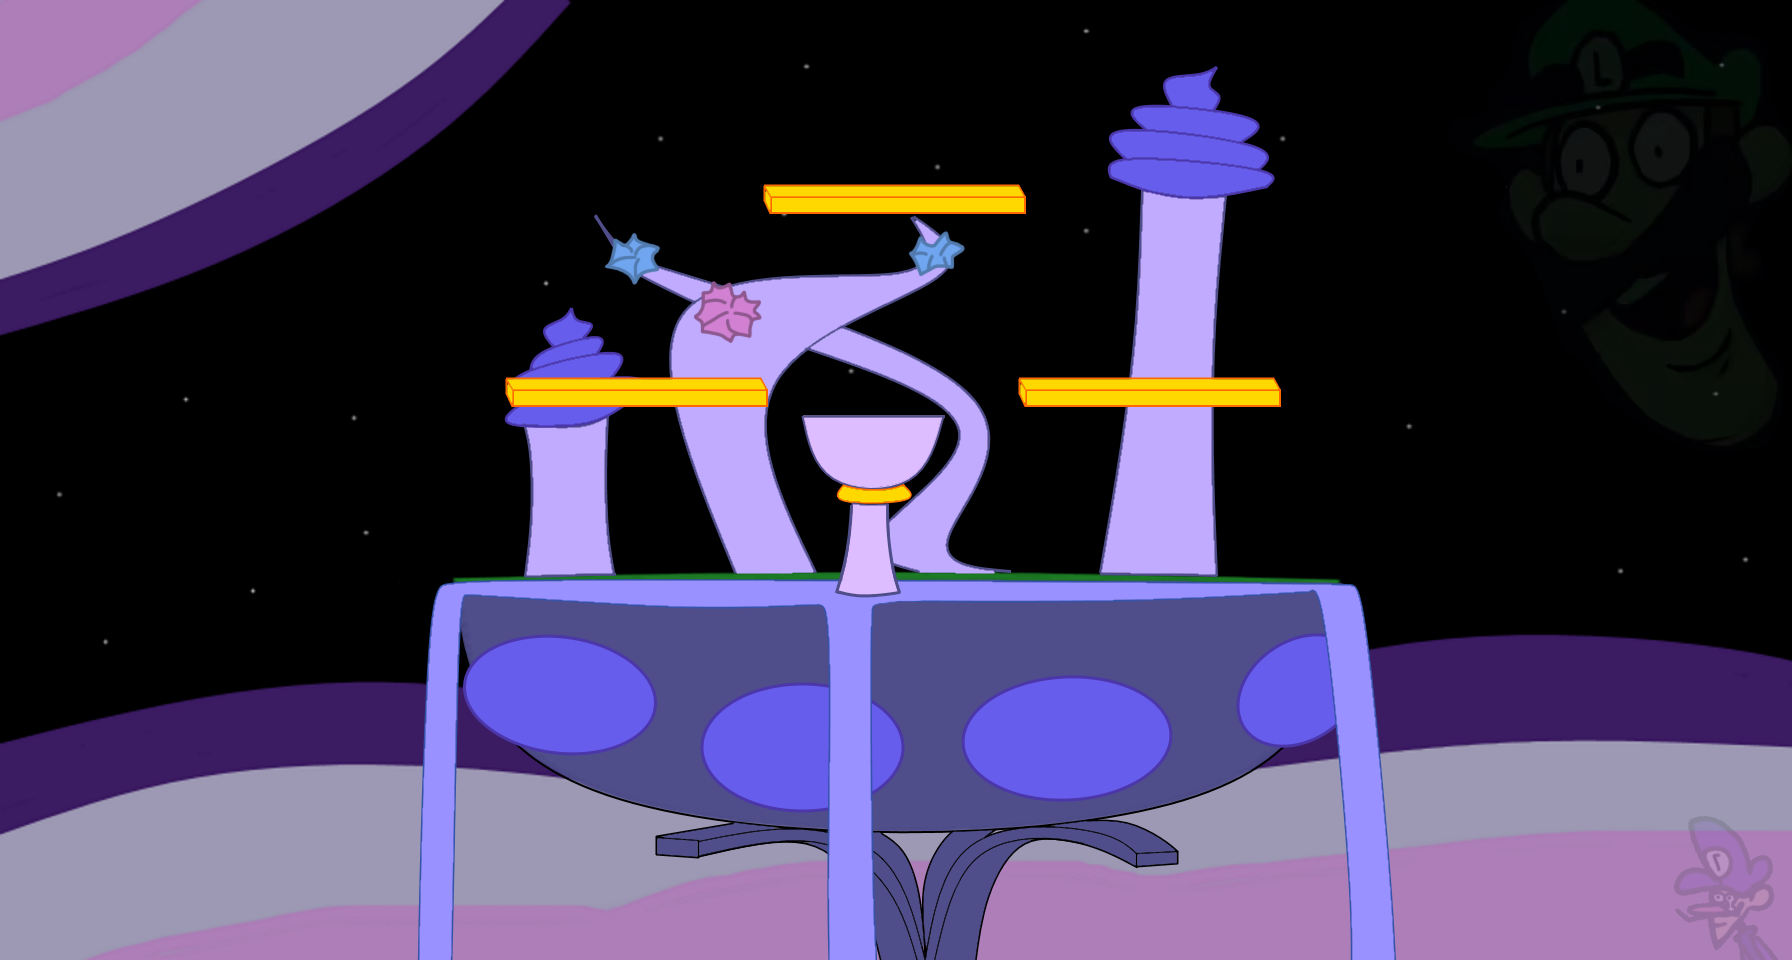
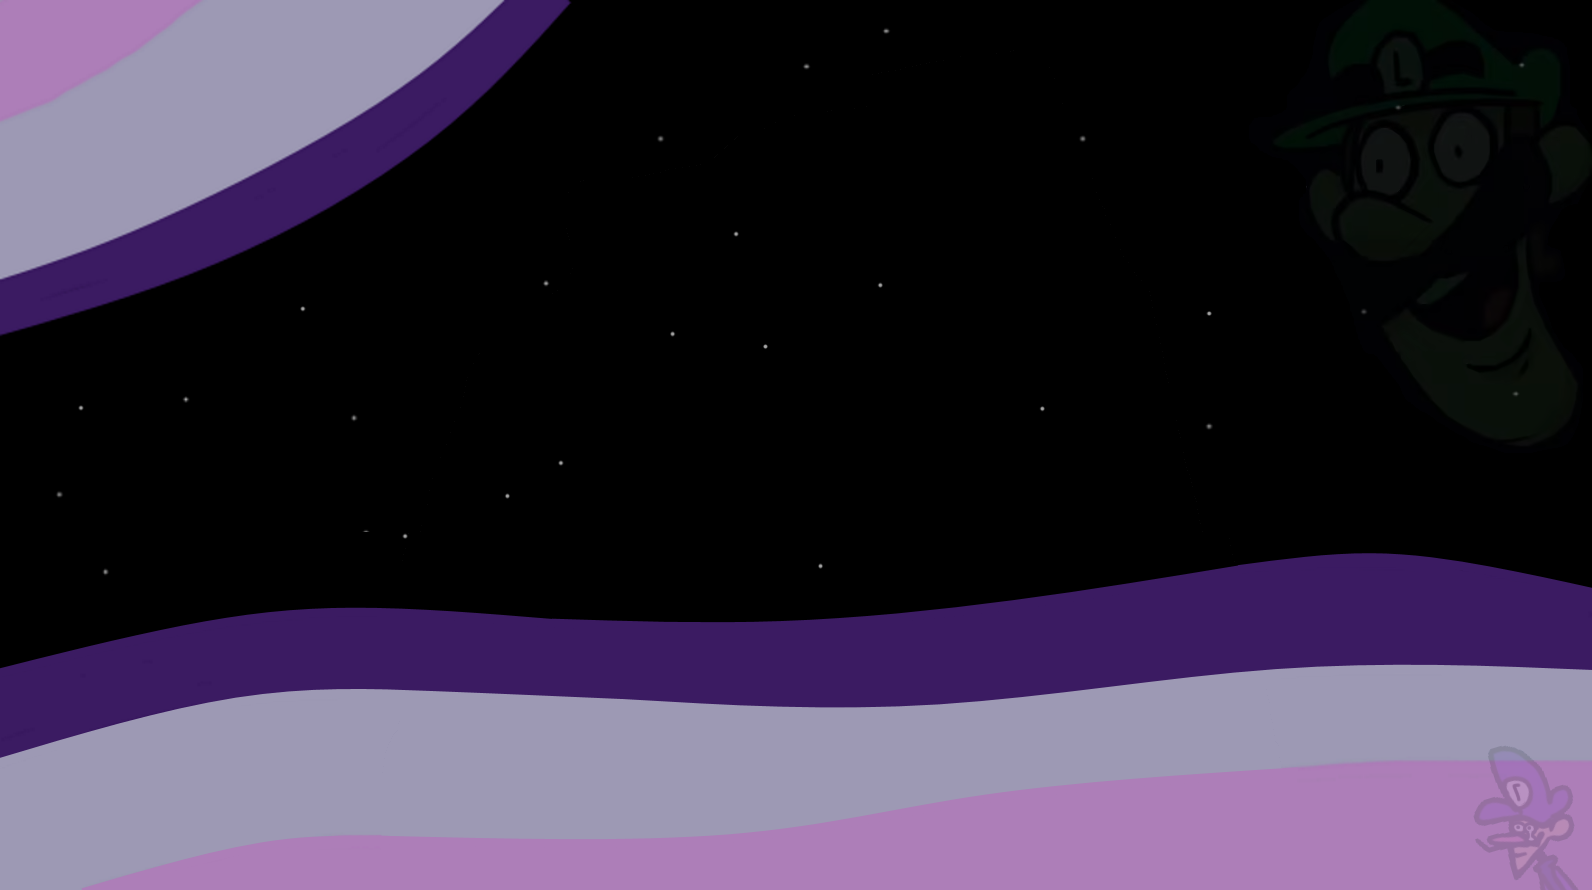
modification arène kingDDD

diff --git a/Platformer/Platformer_DynamicMovingPlatform.cpp b/Platformer/Platformer_DynamicMovingPlatform.cpp
@@ -581,6 +581,7 @@ std::map<std::string, std::vector<olc::Sprite*>> cDynamicMovingPlatform::LoadMov
 	mapPlatforms["SSTierMK"].push_back(new olc::Sprite("assets/gfx/SSTierMK02.png"));
 	mapPlatforms["SSTierMK"].push_back(new olc::Sprite("assets/gfx/SSTierMK03.png"));
 	mapPlatforms["SSTierMK"].push_back(new olc::Sprite("assets/gfx/SSTierMK04.png"));
+	mapPlatforms["BossBckGrd05_arena"].push_back(new olc::Sprite("assets/gfx/BossBckGrd05_arena.png"));
 #pragma endregion
 
 #pragma region Crushers
@@ -1113,6 +1114,7 @@ std::map<std::string, std::vector<olc::Decal*>> cDynamicMovingPlatform::LoadMovi
 	mapDecPlatforms["SSTierMK"].push_back(new olc::Decal(mapPlatforms["SSTierMK"][2]));
 	mapDecPlatforms["SSTierMK"].push_back(new olc::Decal(mapPlatforms["SSTierMK"][3]));
 	mapDecPlatforms["SSTierMK"].push_back(new olc::Decal(mapPlatforms["SSTierMK"][4]));
+	mapDecPlatforms["BossBckGrd05_arena"].push_back(new olc::Decal(mapPlatforms["BossBckGrd05_arena"][0]));
 #pragma endregion
 
 #pragma region Crushers
